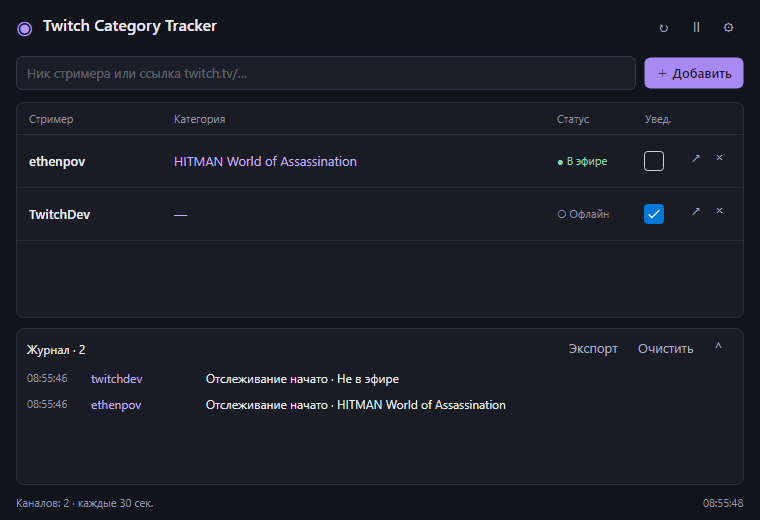
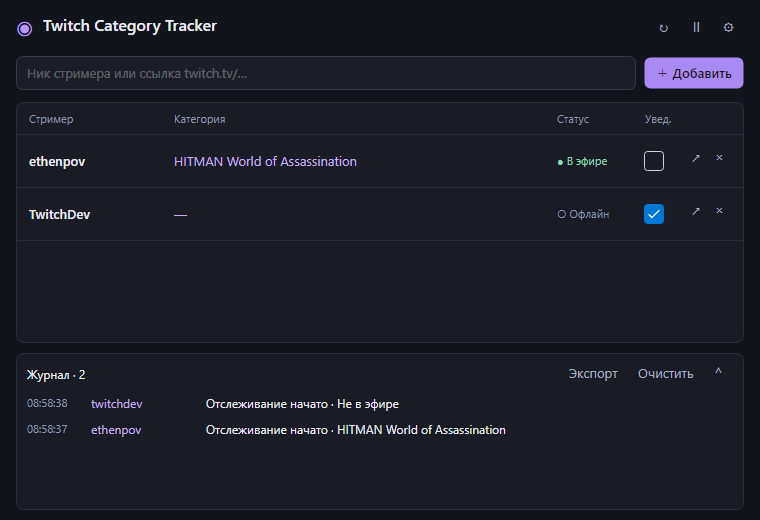
Release v2.0.2: remove bottom status bar

diff --git a/modern/Tracker.Desktop/MainWindow.axaml.cs b/modern/Tracker.Desktop/MainWindow.axaml.cs
@@ -71,14 +71,14 @@ public sealed partial class MainWindow : Window
             catch (Exception ex)
             {
                 Program.Log(ex.ToString());
-                Status(TrackerEngine.FriendlyError(ex));
+                ShowError(TrackerEngine.FriendlyError(ex));
                 if (Program.QaMode) { Directory.CreateDirectory(_qaDirectory); await File.WriteAllTextAsync(Path.Combine(_qaDirectory, "failure.txt"), ex.ToString()); Environment.ExitCode = 1; Quit(); }
             }
         };
         RenderState();
         LoadSettingsFields();
         SizeChanged += (_, e) => { if (e.NewSize.Height < 450) SetHistoryVisible(false); C<Border>("SettingsPanel").MaxHeight = Math.Max(170, e.NewSize.Height - 120); };
-        if (_engine.Storage.RecoveryMessage is { } warning) Status(warning);
+        if (_engine.Storage.RecoveryMessage is { } warning) ShowError(warning);
         Program.Log("window constructed");
     }
 
@@ -97,7 +97,8 @@ public sealed partial class MainWindow : Window
     }
 
     private T C<T>(string name) where T : Control => this.FindControl<T>(name) ?? throw new InvalidOperationException(name);
-    private void Status(string message) => C<TextBlock>("StatusText").Text = message;
+    private void ShowError(string message) { C<TextBlock>("ErrorText").Text = message; C<Border>("ErrorPanel").IsVisible = true; }
+    private void ClearError() => C<Border>("ErrorPanel").IsVisible = false;
     private void RenderState()
     {
         C<TextBlock>("EmptyState").IsVisible = _engine.Data.Channels.Count == 0;
@@ -107,10 +108,6 @@ public sealed partial class MainWindow : Window
         C<TextBlock>("HistoryCount").Text = "Журнал · " + _engine.Data.History.Count;
         C<Button>("RefreshButton").IsEnabled = !_engine.Busy;
         C<Button>("PauseButton").Content = _engine.Paused ? "▶" : "Ⅱ";
-        C<TextBlock>("LastChecked").Text = _engine.LastPoll is { } time ? time.ToLocalTime().ToString("HH:mm:ss") : _engine.Data.Settings.IntervalSeconds + " сек.";
-        if (_engine.Busy) Status("Проверяем…");
-        else if (_engine.Data.Channels.Any(c => c.Error is not null)) Status("Нет свежих данных для некоторых каналов · подробности при наведении");
-        else Status(_engine.Paused ? "Пауза" : $"Каналов: {_engine.Data.Channels.Count} · каждые {_engine.Data.Settings.IntervalSeconds} сек.");
     }
 
     private async void AddChannel(object? s, RoutedEventArgs e) => await AddFromInputAsync();
@@ -119,9 +116,10 @@ public sealed partial class MainWindow : Window
     {
         if (_adding) return;
         _adding = true;
+        ClearError();
         C<Button>("AddButton").IsEnabled = false;
-        try { Status("Ищем канал…"); await _engine.AddAsync(C<TextBox>("ChannelInput").Text ?? "", _lifetime.Token); C<TextBox>("ChannelInput").Text = ""; RenderState(); }
-        catch (Exception ex) { Status(TrackerEngine.FriendlyError(ex)); }
+        try { await _engine.AddAsync(C<TextBox>("ChannelInput").Text ?? "", _lifetime.Token); C<TextBox>("ChannelInput").Text = ""; RenderState(); }
+        catch (Exception ex) { ShowError(TrackerEngine.FriendlyError(ex)); }
         finally { _adding = false; C<Button>("AddButton").IsEnabled = true; }
     }
     private async void RemoveChannel(object? s, RoutedEventArgs e) { if (s is Button { Tag: string login }) await Guard(() => _engine.RemoveAsync(login)); }
@@ -131,18 +129,18 @@ public sealed partial class MainWindow : Window
     private void ToggleHistory(object? s, RoutedEventArgs e) => SetHistoryVisible(!C<ScrollViewer>("HistoryContent").IsVisible);
     private void SetHistoryVisible(bool visible) { C<ScrollViewer>("HistoryContent").IsVisible = visible; C<Button>("HistoryToggle").Content = visible ? "⌃" : "⌄"; }
     private async void ClearHistory(object? s, RoutedEventArgs e) => await Guard(() => _engine.ClearHistoryAsync());
-    private async void ExportHistory(object? s, RoutedEventArgs e) => await Guard(async () => { var path = await _engine.ExportAsync(); OpenDataFolder(); Status("Сохранено: " + path); });
+    private async void ExportHistory(object? s, RoutedEventArgs e) => await Guard(async () => { await _engine.ExportAsync(); OpenDataFolder(); });
     private void OpenData(object? s, RoutedEventArgs e) => OpenDataFolder();
     private void OpenDataFolder()
     {
         try
         {
+            ClearError();
             var request = PortableData.OpenFolderRequest(_engine.Storage.DirectoryPath);
             if (!Program.QaMode) Process.Start(request);
             _lastOpenedFolder = _engine.Storage.DirectoryPath;
-            Status("Папка данных: " + _engine.Storage.DirectoryPath);
         }
-        catch (Exception ex) { Status("Не удалось открыть папку: " + ex.Message); }
+        catch (Exception ex) { ShowError("Не удалось открыть папку: " + ex.Message); }
     }
     private async void ToggleChannelNotifications(object? s, RoutedEventArgs e)
     {
@@ -169,11 +167,10 @@ public sealed partial class MainWindow : Window
             settings.CloseToTray = C<CheckBox>("TrayInput").IsChecked == true;
         });
         C<Border>("SettingsPanel").IsVisible = false;
-        Status("Настройки сохранены");
     });
     private void ShowNotification(string title, string message) => _tray?.ShowBalloonTip(5000, title, message, Forms.ToolTipIcon.Info);
-    private async Task Guard(Func<Task> action) { try { await action(); } catch (Exception ex) { Status(TrackerEngine.FriendlyError(ex)); } }
-    private void OpenExternal(string target) { try { if (!Program.QaMode) Process.Start(new ProcessStartInfo(target) { UseShellExecute = true }); } catch (Exception ex) { Status(ex.Message); } }
+    private async Task Guard(Func<Task> action) { ClearError(); try { await action(); } catch (Exception ex) { ShowError(TrackerEngine.FriendlyError(ex)); } }
+    private void OpenExternal(string target) { try { if (!Program.QaMode) Process.Start(new ProcessStartInfo(target) { UseShellExecute = true }); } catch (Exception ex) { ShowError(ex.Message); } }
     private void Restore() { Show(); WindowState = WindowState.Normal; Activate(); }
     private void Quit()
     {

diff --git a/README.md b/README.md
@@ -4,7 +4,7 @@
 
 ## Скачать
 
-**[Скачать v2.0.1 для Windows x64](https://github.com/wericool/Twitch-Category-Tracker/releases/download/v2.0.1/TwitchCategoryTracker-v2.0.1-win-x64.zip)** · [Все версии](https://github.com/wericool/Twitch-Category-Tracker/releases)
+**[Скачать v2.0.2 для Windows x64](https://github.com/wericool/Twitch-Category-Tracker/releases/download/v2.0.2/TwitchCategoryTracker-v2.0.2-win-x64.zip)** · [Все версии](https://github.com/wericool/Twitch-Category-Tracker/releases)
 
 Распакуйте архив и запустите `TwitchCategoryTracker.exe`. Устанавливать .NET отдельно не нужно.
 

diff --git a/CHANGELOG.md b/CHANGELOG.md
@@ -1,5 +1,10 @@
 # История версий
 
+## 2.0.2 — 15 октября 2026
+
+- Убрана нижняя информационная строка с часами, количеством каналов и интервалом проверки.
+- Сообщения об ошибках показываются возле поля добавления стримера.
+
 ## 2.0.1 — 15 октября 2026
 
 - Убрана кнопка тестового уведомления из настроек.
